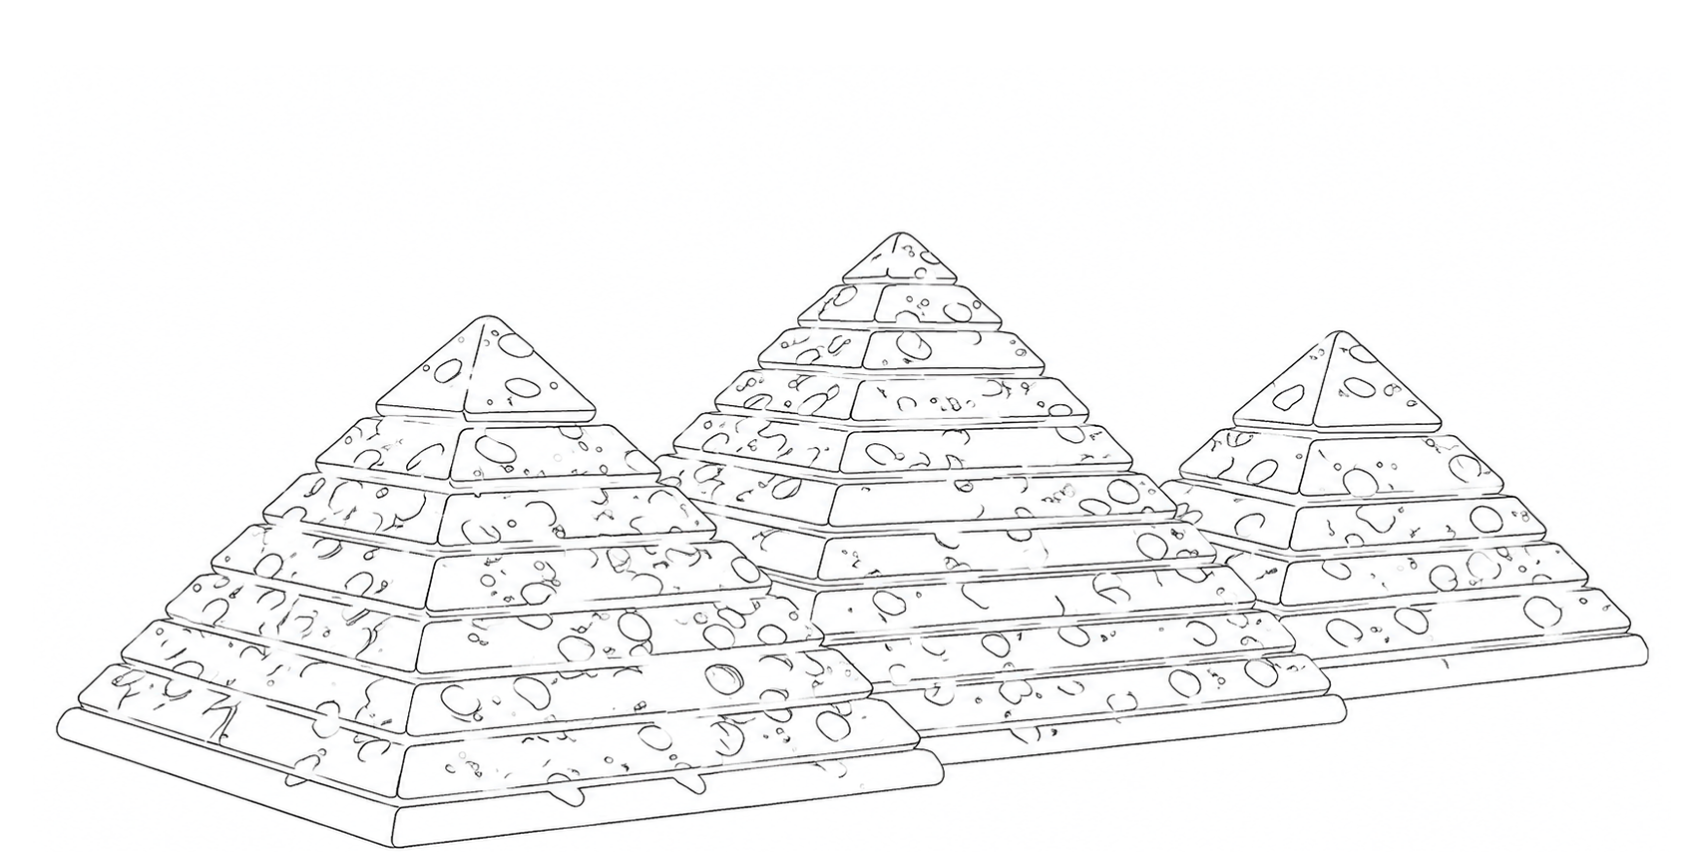
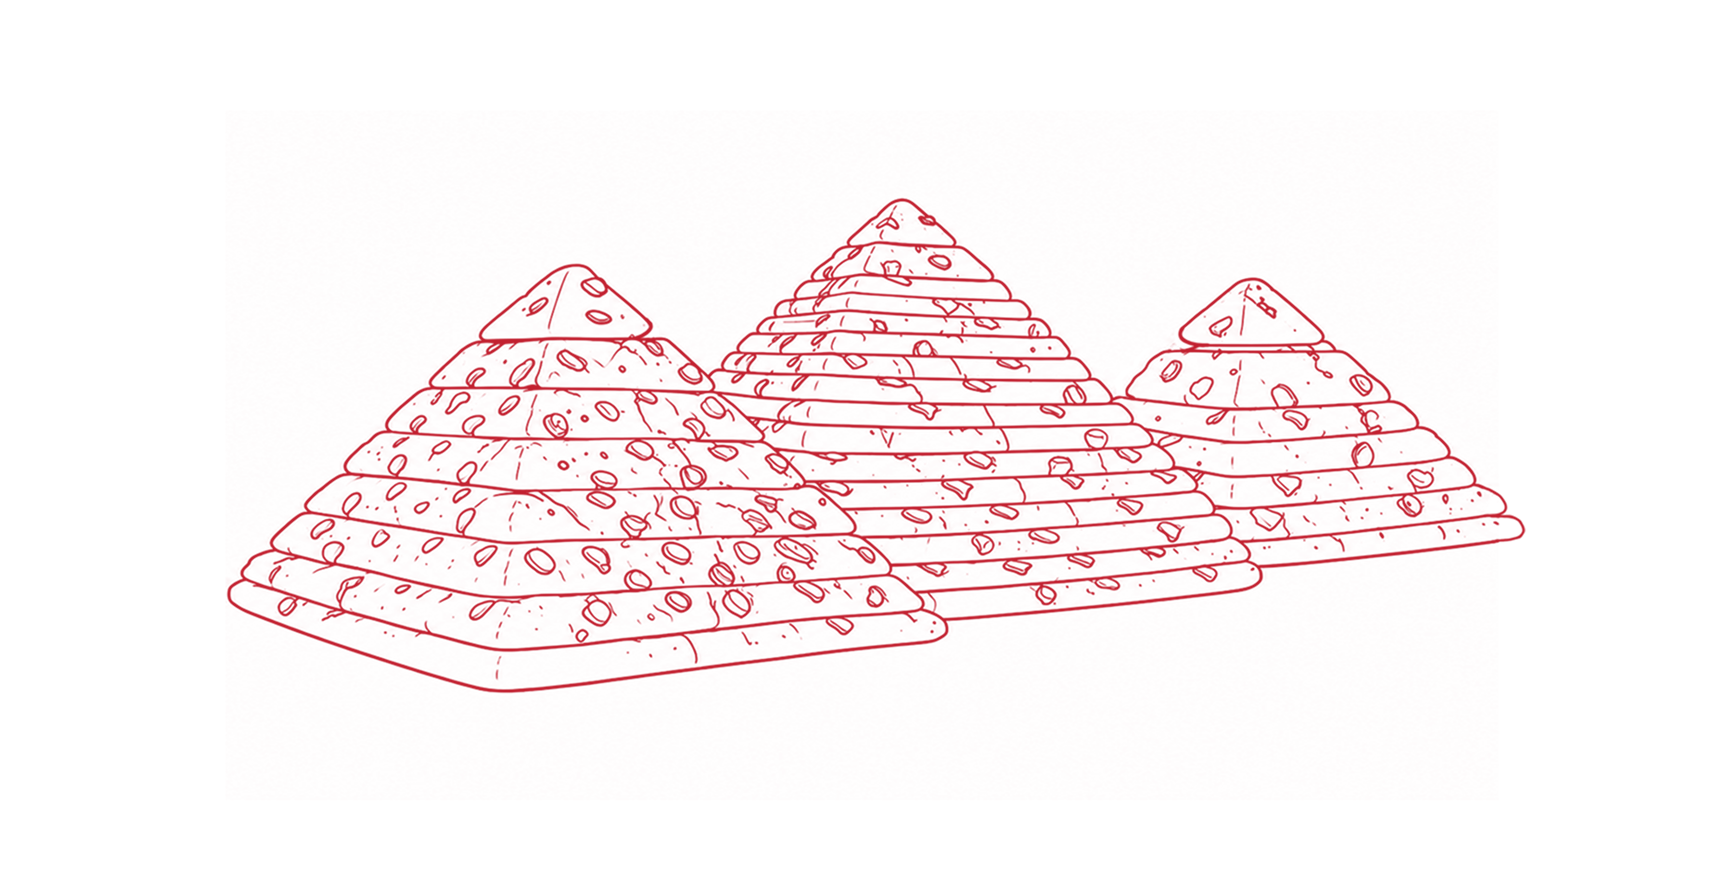
pyramid scroll

diff --git a/fks/index.html b/fks/index.html
@@ -257,31 +257,6 @@
                 </div>
             </section>
 
-            <!-- <section class="pyramid">
-                <div class="container-xl">
-                    <div class="pyramidInner">
-                        <div class="pyramidTop">
-                            <h3 class="heading11xl">The Great Pyramid of Giza was
-                                built with 2.3 million blocks.</h3>
-                            <span class="heading3xl">Every day, our production lines make enough biscuits to build two
-                                of them.</span>
-                        </div>
-                    </div>
-
-                    <div class="hero">
-                        <div class="stage">
-                            <div class="stageImage">
-                                <img src="assets/images/pyramid-image-line-removebg-preview.png" class="wire">
-                            </div>
-                            <div class="reveal">
-                                <img src="assets/images/pyramid-image-with-lable.png" class="color">
-                            </div>
-                            <div class="scan-line"></div>
-                        </div>
-                    </div>
-                </div>
-            </section> -->
-
             <section class="multiProduct">
                 <div class="container-xl">
                     <div class="multiProductInner">
@@ -348,6 +323,29 @@
                                     Lorem Ipsum has been the industry's standard dummy text ever since the
                                     1500s,</span>
                             </div>
+                        </div>
+                    </div>
+                </div>
+            </section>
+
+            <section class="pyramid">
+                <div class="container-xl">
+                    <div class="pyramidInner">
+                        <div class="pyramidTop">
+                            <h3 class="heading11xl">The Great Pyramid of Giza was
+                                built with 2.3 million blocks.</h3>
+                            <span class="heading3xl">Every day, our production lines make enough biscuits to build two
+                                of them.</span>
+                        </div>
+                    </div>
+
+                    <div class="hero">
+                        <div class="stage">
+                            <img src="assets/images/pyramid-image-line.png" class="wire">
+                            <div class="reveal">
+                                <img src="assets/images/pyramid-image-with-lable.png" class="color">
+                            </div>
+                            <!-- <div class="scan-line"></div> -->
                         </div>
                     </div>
                 </div>

diff --git a/fks/assets/css/pages/home.css b/fks/assets/css/pages/home.css
@@ -149,6 +149,25 @@
 .brandListingSwiper .swiper-wrapper, .brandListingSwiper1 .swiper-wrapper { transition-timing-function: linear; }
 
 /* pyramid css */
+
+/* .pyramid { padding: 200px 0; background-color: var(--colorSecondary); overflow-x: clip; }
+.pyramidTop { text-align: center; }
+.pyramidTop .heading11xl { color: var(--colorAccent); }
+#gameCanvas { position: relative; top: 0; left: 0; width: 100vw; height: 100vh; display: block; image-rendering: crisp-edges; }
+.pyramidImage { position: relative; }
+.pyramidImageInner { position: relative; right: 0; padding: 200px 0 0 0; }
+.pyramidPopUpList { display: flex; align-items: center; width: max-content; background-color: var(--colorWhite); padding: 20px; border: 4px solid var(--colorAccent); border-radius: 80px; gap: 10px; }
+.indexNumber { display: flex; align-items: center; justify-content: center; width: 50px; height: 50px; background-color: var(--colorPrimary); border-radius: 50%; color: var(--colorWhite); font-size: 30px; }
+.popupContent .heading5xl { color: var(--colorAccent); margin: 0; font-size: 26px; }
+.popupContent .subTextXl { color: var(--colorBlack); font-size: 16px; }
+.pyramidPopUpList { position: absolute; opacity: 0; transform: translateY(80px) scale(0.9); transition: none; }
+.pyramidPopUpList:first-child { top: 135px; left: 18%; }
+.pyramidPopUpList:nth-child(2) { top: 98px; left: 43%; }
+.pyramidPopUpList:nth-child(3) { top: 65px; left: 40%; }
+.pyramidPopUpList:last-child { top: 195px; left: 67%; }
+.popupContent { line-height: 1; } */
+
+/* pyramid css */
 .pyramid { padding: 200px 0; background-color: var(--colorSecondary); overflow-x: clip; }
 .pyramidTop { text-align: center; }
 .pyramidTop .heading11xl { color: var(--colorAccent); }
@@ -167,9 +186,17 @@
 .popupContent { line-height: 1; }
 
 /*  */
-.hero { margin: 100px 0 0 0; }
+.hero { height: 150vh; }
+.stage { position: sticky; top: 0; height: 100vh; overflow: hidden; }
+.wire, .color { position: absolute; inset: 0; width: 100%; height: 100%; object-fit: contain; }
+.reveal { position: absolute; inset: 0; clip-path: inset(100% 0 0 0); }
+.scan-line { position: absolute; left: 0; width: 100%; height: 2px; background: #ffcc00; bottom: 0; }
+
+/*  */
+
+/* .hero { margin: 100px 0 0 0; }
 .hero { position: relative; }
 .scan-line { position: absolute; left: 0; width: 100%; height: 2px; background: linear-gradient(90deg, rgba(117, 114, 102, 0) 0%, #E6C020 18.69%, #E6C020 66.47%, rgba(230, 192, 32, 0) 100%); ; bottom: 0%; pointer-events: none; }
 .wire, .color { position: absolute; width: 100%; left: 0; top: 0; height: auto; }
 .stage { position: sticky; top: 0; height: 100vh; overflow: hidden; }
-.reveal { position: absolute; inset: 0; overflow: hidden; height: 0%; }
+.reveal { position: absolute; inset: 0; overflow: hidden; height: 0%; } */

diff --git a/fks/assets/js/pages/home.js b/fks/assets/js/pages/home.js
@@ -279,31 +279,25 @@ $(".productCataList").on("click", function () {
 /* banner scroll animation start */
 gsap.registerPlugin(ScrollTrigger);
 
-const image = document.querySelector(".wire");
-
-gsap.set(".reveal", {
-    clipPath: "inset(100% 0 0 0)"
-});
-
-let pyramidTl = gsap.timeline({
+let tl1 = gsap.timeline({
     scrollTrigger: {
-        trigger: ".pyramid",
-        start: "10% top",
-        end: "+=1500",
-        scrub: true,
-        pin: true,
-        anticipatePin: 1,
-        invalidateOnRefresh: true
+        trigger: ".hero",
+
+        // animation starts a little later
+        start: "top 80%",
+
+        // shorter animation distance
+        end: "bottom 80%",
+
+        scrub: 1.2
     }
 });
 
-pyramidTl.to(".reveal", {
+tl1.to(".reveal", {
     clipPath: "inset(0% 0 0 0)",
     ease: "none"
-}, 0)
-
-    .to(".scan-line", {
-        bottom: image.offsetHeight,
-        ease: "none"
-    }, 0);
+}, 0);
 /* banner scroll animation end */
+
+
+
